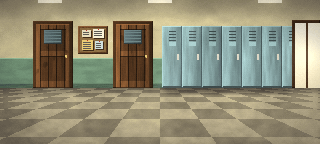
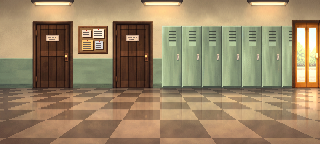
Kapitel 2: alle acht Hintergründe von 1955 mit Higgsfield neu gezeichnet
Die alten Bilder dienten als Vorlage für die Anordnung, je ein Hintergrund
von 1986 als Stilvorlage; Dezember 1955 mit Schnee und Weihnachtsschmuck.
Klickflächen und Effekte passen weiter. Auf dem Stadtplan liegen Villa und
Schule nun andersherum, die Ziele sind getauscht. bg.cjs bringt neue
Hintergründe auf 320x144 und misst die Verschiebung zum alten Bild.

diff --git a/tools/paint/build.ts b/tools/paint/build.ts
@@ -108,6 +108,8 @@ const UI: Record<string, () => Picture> = {
 
 /** Vom Nutzer gezeichnete Bilder: Sie werden nie übermalt, auch nicht mit --force oder Namensfilter. */
 const EIGENE_BILDER = new Set(['titel', 'martys_zimmer_1986', 'kueche_1986', 'arbeitszimmer_1986', 'vorgarten_1986', 'vorgarten_1986_tannenburg', 'veranda_1986', 'docs_labor_1986', 'stadtplan_1986', 'stadtplan_1986_tannenburg', 'rathausplatz_1986', 'rathausplatz_1986_tannenburg', 'turmeingang_1986', 'uhrwerk_1986', 'schule_flur_1986', 'bandraum_1986', 'schuelerzeitung_1986',
+  // Hintergründe 1955, mit Higgsfield neu gezeichnet
+  'uhrwerk_1955', 'rathausplatz_1955', 'docs_labor_1955', 'cafe_1955', 'radioladen_1955', 'schule_flur_1955', 'strasse_1955', 'stadtplan_1955',
   // Gegenstände
   'foto_stufe0', 'foto_stufe1', 'foto_stufe2', 'foto_stufe3', 'foto_stufe4', 'kugelschreiber', 'skateboard', 'skateboard_wand',
   'banane', 'bananenschale', 'x_mikrowelle', 'diktiergeraet',

diff --git a/src/game/rooms/stadtplan.ts b/src/game/rooms/stadtplan.ts
@@ -191,12 +191,12 @@ export const stadtplan: RoomDef = {
             at: [296, 122],
             face: 'links',
           }),
-          target('plan_villa', rect(40, 80, 46, 40), 'say.k2.plan_villa', {
+          target('plan_villa', rect(232, 6, 45, 57), 'say.k2.plan_villa', {
             room: 'docs_labor',
             at: [287, 100],
             face: 'links',
           }),
-          target('plan_schule', rect(232, 6, 45, 57), 'say.k2.plan_schule', {
+          target('plan_schule', rect(40, 80, 46, 40), 'say.k2.plan_schule', {
             room: 'schule_flur',
             at: [300, 100],
             face: 'links',
